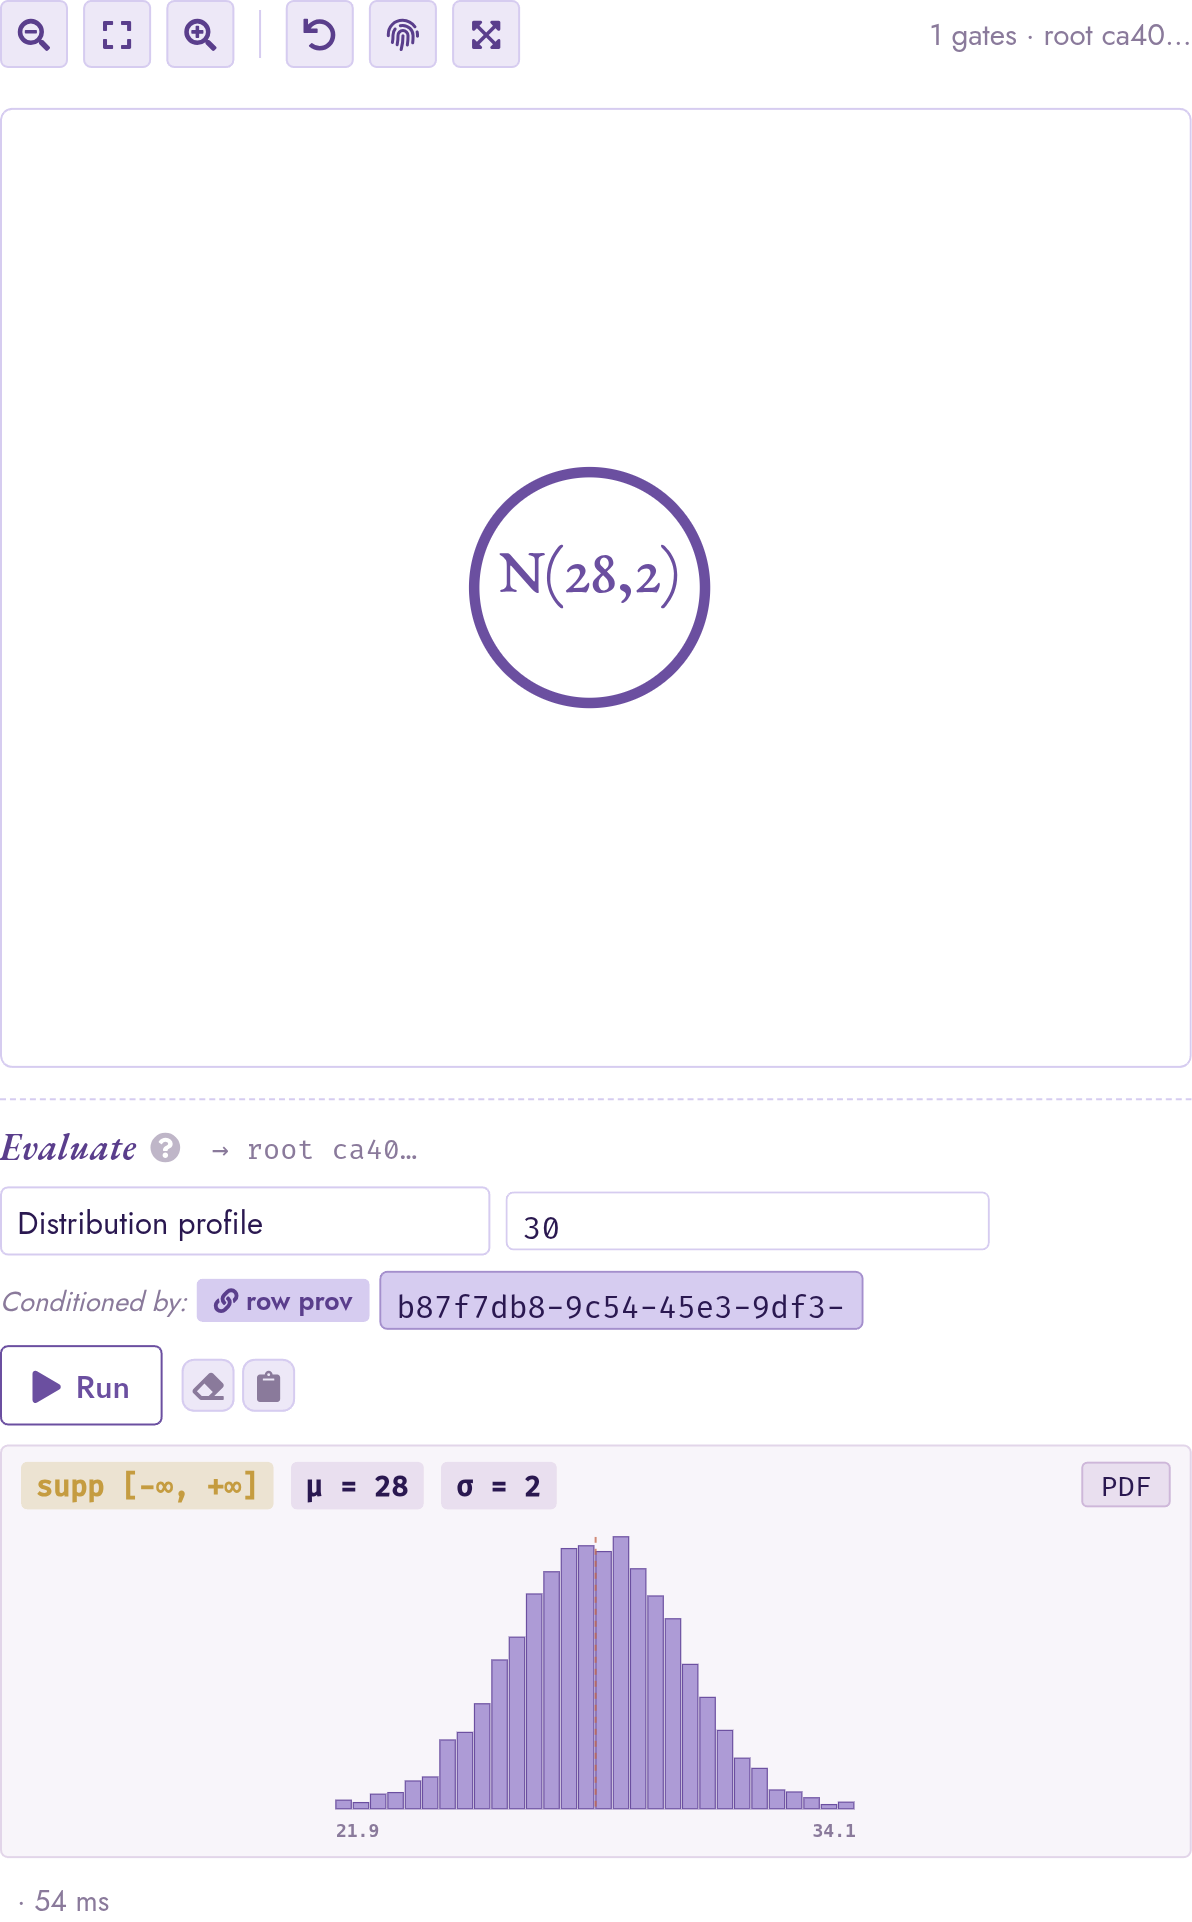
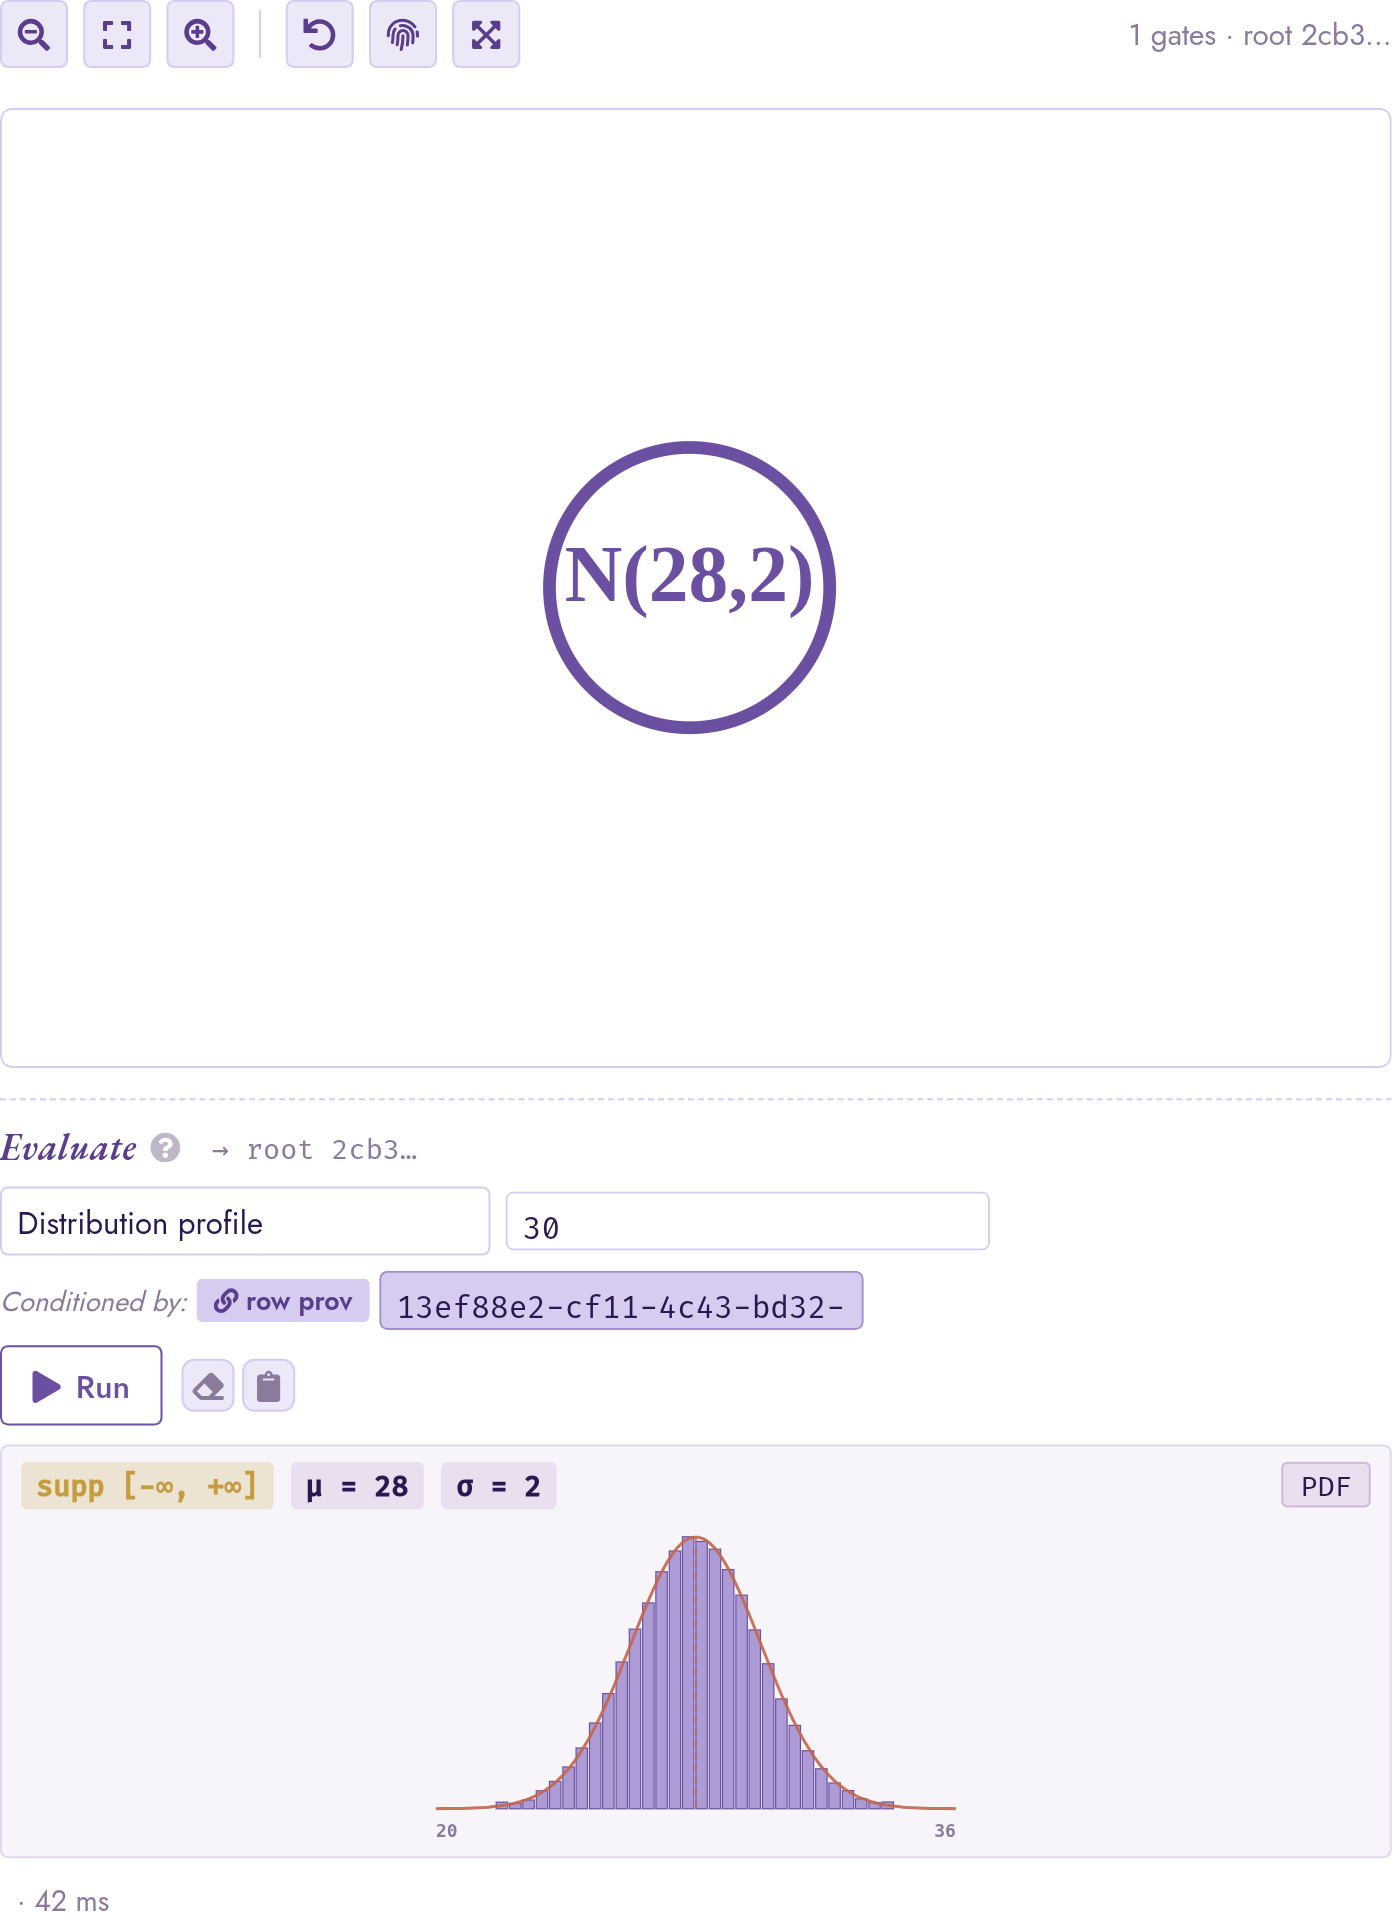
hybrid: fold X/c through DIV-to-TIMES canonicalisation; trim RV labels
The simplifier's affine-shape closure (try_times_scalar_rv) only matched
gate_arith(TIMES), so X/c stayed unfolded even though it is semantically
X*(1/c).  Add a step in apply_rules that rewrites gate_arith(DIV, X,
value:c) to gate_arith(TIMES, X, value:1/c) before the family-closure
rules run; the existing try_times_scalar_rv then folds the result for
Normal / Uniform / Exponential / Erlang.  c=0 is unreachable here since
constant-folding fires first.  New continuous_hybrid case asserts
P(N(0,1)/2 > 1) = 0.02275... to 1e-12, only achievable via the analytic
CDF on a single folded gate_rv.

Studio: _format_rv_label rounds RV parameters to four significant figures
so folded labels like N(23.333333333333336, 1.6666666666666667) render
as N(23.33, 1.667) in the circle; the inspector still surfaces the full
extra string for full-precision viewing.

Also align case study 6 with the corrected semantics: the calibration
mixture is mixture(p, pm25, pm25 / 1.2) -- the back-scaled estimate of
the true reading when the unit is mis-calibrated -- not pm25 * 1.2.
Updated rst prose, regression test (test/sql/casestudy6.sql), and the
recaptured mixture-node and gate-rv-distribution-profile screenshots.
The latter now shows the analytical PDF overlay over the histogram.

diff --git a/studio/provsql_studio/circuit.py b/studio/provsql_studio/circuit.py
@@ -182,12 +182,12 @@ def _format_prob_label(p: float) -> str:
 def _format_rv_label(extra: str) -> str:
     """Render the in-circle label for a gate_rv leaf from its extra text.
 
-    Extra is "<kind>:<p1>[,<p2>]" (see src/RandomVariable.{h,cpp}). We
-    return the full kind-initial + parenthesised parameter list (e.g.
-    "N(2.5,0.5)") without truncating; the front-end shrinks the
-    font-size to fit so the user keeps the full parameter list rather
-    than seeing an ellipsis. The full text is still surfaced by the
-    inspector under the `distribution` row.
+    Extra is "<kind>:<p1>[,<p2>]" (see src/RandomVariable.{h,cpp}).
+    Numeric parameters are shortened to four significant figures so
+    folded-distribution labels like
+    "normal:23.333333333333336,1.6666666666666667" do not blow the
+    circle wide; the full text is still surfaced by the inspector
+    under the `distribution` row.
     """
     s = str(extra).strip()
     kind, _, params = s.partition(":")
@@ -195,7 +195,16 @@ def _format_rv_label(extra: str) -> str:
     if label is None:
         return s
     p = params.strip()
-    return f"{label}({p})" if p else label
+    if not p:
+        return label
+    parts = []
+    for raw in p.split(","):
+        token = raw.strip()
+        try:
+            parts.append(f"{float(token):.4g}")
+        except ValueError:
+            parts.append(token)
+    return f"{label}({','.join(parts)})"
 
 
 def _truncate(s: str, n: int = 6) -> str:

diff --git a/src/HybridEvaluator.cpp b/src/HybridEvaluator.cpp
@@ -1158,6 +1158,33 @@ unsigned apply_rules(GenericCircuit &gc, gate_t g,
       }
     }
 
+    /* 1c. DIV-by-constant to TIMES-by-reciprocal canonicalisation.
+     *     Rewrites @c arith(DIV, X, value:c) as
+     *     @c arith(TIMES, X, value:1/c) (c != 0) so the existing
+     *     scalar-times-RV closure (@c try_times_scalar_rv) and every
+     *     other downstream TIMES rule fold @c X/c uniformly with
+     *     @c c*X.  DIV-by-non-constant is left alone (no closure to
+     *     apply); fully-constant @c DIV(value, value) is handled by
+     *     the constant fold above so we never see @c c=0 here. */
+    {
+      auto op = static_cast<provsql_arith_op>(gc.getInfos(g).first);
+      if (op == PROVSQL_ARITH_DIV) {
+        const auto &wires_in = gc.getWires(g);
+        if (wires_in.size() == 2) {
+          const double c = try_eval_constant(gc, wires_in[1]);
+          if (!std::isnan(c) && c != 0.0) {
+            const gate_t x = wires_in[0];
+            const gate_t inv = gc.addAnonymousValueGate(
+                                  double_to_text(1.0 / c));
+            gc.setInfos(g, static_cast<unsigned>(PROVSQL_ARITH_TIMES), 0);
+            gc.setWires(g, {x, inv});
+            ++local;
+            continue;
+          }
+        }
+      }
+    }
+
     /* 2. Identity / absorber drops on PLUS and TIMES. */
     if (try_identity_drop(gc, g)) {
       ++local;

diff --git a/doc/source/user/casestudy6.rst b/doc/source/user/casestudy6.rst
@@ -137,8 +137,8 @@ cell carrying the underlying gate UUID. Click into a row's
 ``gate_rv`` leaf with the distribution-kind initial in the circle
 (*N* for a Normal, *U* for Uniform, *Exp* for Exponential, *Erl*
 for Erlang).
-Pick *Distribution profile* under the *Distribution* optgroup of
-the eval strip and click :guilabel:`Run`: the panel returns
+Pick *Distribution profile* from the *Distribution* group of the
+eval strip and click :guilabel:`Run`: the panel returns
 :math:`\mu` and :math:`\sigma^2` headline stats and an inline
 histogram with a PDF/CDF toggle.
 
@@ -150,11 +150,17 @@ pinning ``provsql.monte_carlo_seed`` in the Config panel (under
    :alt: Studio Circuit mode showing the gate_rv N(28,2) leaf at
          the top of the canvas and the Distribution profile
          eval-strip panel below, with mu=28, sigma=2, support
-         (-infinity, +infinity) and an inline histogram.
+         (-infinity, +infinity) and an inline histogram overlaid
+         by a terracotta analytical PDF curve.
 
    The ``gate_rv`` leaf for ``pm25`` on row 1 is a ``N(28, 2)``
    circle; the eval-strip *Distribution profile* panel shows the
    :math:`\mu`, :math:`\sigma`, support, and an inline histogram.
+   When the gate has a closed-form family (here a bare Normal),
+   Studio overlays the analytical PDF on top of the bars; the
+   curve rides the histogram envelope so any mismatch between the
+   sampled histogram and the closed-form shape is immediately
+   visible.
 
 Step 2: A First Probabilistic Threshold
 ----------------------------------------
@@ -168,15 +174,9 @@ the rows whose reading might cross it:
     FROM readings
     WHERE pm25 > 35
 
-Two transformations happen invisibly:
-
-* The :math:`> 35` operator on the ``random_variable`` column
-  resolves to ``random_variable_gt``, which the planner hook
-  intercepts at planning time and rewrites into a ``gate_cmp``
-  conjoined into each row's ``provsql`` column. The procedure
-  body itself is never executed.
-* The implicit ``integer → random_variable`` cast lifts the
-  literal ``35`` into a ``gate_value``.
+Because ``pm25`` is a random variable, the comparison is not a
+yes/no test: it stands for the *event* "this reading exceeds 35",
+and ProvSQL attaches that event to each row's provenance.
 
 Click into a result row's auto-added ``provsql`` cell. Circuit mode shows the
 Boolean wrapper (a ``gate_times`` over the row's input token and
@@ -207,21 +207,26 @@ Step 3: Calibration via Mixtures
 ---------------------------------
 
 Each station has a probability of being mis-calibrated; a
-mis-calibrated unit reports ``pm25 * 1.2`` instead of ``pm25``.
-Express this as a Bernoulli mixture:
+mis-calibrated unit over-reports by 20% (the *reading* it
+records is ``1.2`` times the true value). The corrected estimate
+of the true reading is therefore ``pm25`` with probability ``p``
+(the station is in spec) and ``pm25 / 1.2`` with probability
+``1 - p`` (the report needs to be scaled back). Express this as
+a Bernoulli mixture:
 
 .. code-block:: postgresql
 
     SELECT r.id, r.station_id,
-           provsql.mixture(cs.p, r.pm25, r.pm25 * 1.2) AS pm25_calibrated
+           provsql.mixture(cs.p, r.pm25, r.pm25 / 1.2) AS pm25_calibrated
     FROM readings r JOIN calibration_status cs USING (station_id)
     WHERE r.station_id = 's1'
 
 Click into a result row's ``pm25_calibrated`` cell. Circuit mode
-renders the ``gate_mixture`` with three labelled outgoing edges
-(``p`` / ``x`` / ``y``) matching the SQL constructor's argument
-order. The parent circle renders the Bernoulli probability
-inline.
+renders the ``gate_mixture`` as a ``Mix`` node with three
+labelled outgoing edges (``p`` / ``x`` / ``y``) matching the SQL
+constructor's argument order: ``p`` points to the Bernoulli
+mixing probability, ``x`` to the in-spec arm, and ``y`` to the
+correction arm.
 
 The same node-inspector panel exposes ``Distribution profile``
 on the mixture root: the histogram becomes bimodal, with the two
@@ -230,14 +235,18 @@ weighted by the calibration probability.
 
 .. figure:: /_static/casestudy6/mixture-node.png
    :alt: Mix node with three labelled outgoing edges (p, x, y);
-         the p child renders inline as 95% on the parent circle,
-         and the x and y children are the N(28,2) and the
-         scale-shifted reading respectively.
+         the p child is a 95% Bernoulli, the x child is the
+         N(28,2) reading, and the y child is the back-scaled
+         N(23.33,1.667) folded by the simplifier.
 
-   The ``gate_mixture`` for the calibrated reading. The parent's
-   inline ``95%`` is the Bernoulli probability that station ``s1``
-   is in spec; the three outgoing edges label ``p`` / ``x`` / ``y``
-   to match the SQL constructor argument order.
+   The ``gate_mixture`` for the calibrated reading. The
+   ``95%`` child is the Bernoulli probability that station ``s1``
+   is in spec; the ``x`` arm is the raw reading ``N(28, 2)``; the
+   ``y`` arm is the back-scaled estimate ``pm25 / 1.2``, which the
+   simplifier folded through the Normal affine-shift rule into a
+   single ``gate_rv`` ``N(23.33, 1.667)``. Circle labels show four
+   significant figures; the inspector pinned to either child
+   surfaces the full-precision parameters.
 
 Step 4: Aggregation Over Random Variables
 ------------------------------------------
@@ -360,11 +369,10 @@ Step 7: Diagnostic Sampling
 
 For raw inspection or downstream analytics, draw samples from the
 conditional distribution. With the same row pinned and the
-*Conditioned by* badge active, pick *Sample* under the
-*Distribution* optgroup; set ``n = 200`` and run. The result
-renders as a ``<details>`` panel with a six-value inline preview
-and a "show full list" expander; clicking it dumps all 200
-samples.
+*Conditioned by* badge active, pick *Sample* from the
+*Distribution* group; set ``n = 200`` and run. The result panel
+shows a six-value inline preview with a "show full list"
+expander; clicking it dumps all 200 samples.
 
 If the conditioning event is so unlikely that fewer than 200
 samples land within the ``provsql.rv_mc_samples`` budget, the
